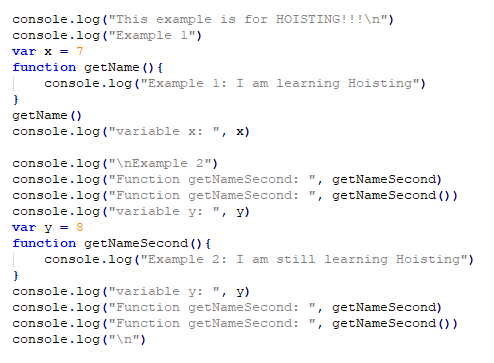
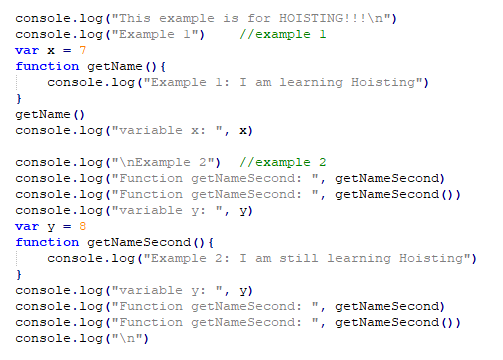
done scope topic

diff --git a/myscripts.js b/myscripts.js
@@ -1,18 +1,25 @@
 // add bongo cat on top
 // title logo with yellow JS text
 // add video redirect links to concepts of akshay saini
-// add QR code UPI for support and paypal (or to make this site go live and become an opensource community)
+// add QR code UPI for support developer and paypal and github link (or to make this site go live and become an opensource community)
+
+// =================================================   MESSAGE    =======================================================
 
 /*
 Developed by Sankalp Sharma
 Email: sharma.sankalp97@gmail.com
 Website: sharmasankalp.com
 I was a newbie with JS when I developed this. Learnt all the stuff from Akshay Saini (youtube), you can check that out!
-Also, if you feel like you can contribute to the website through your skills, feel free to read out to me. (Please do if you want to make significant changes)
+Also, if you feel like you can contribute to the website through your skills, feel free to read out to me. (Please do, if you want to make significant changes)
 If you are only interested in minor changes/fixes or improvements, you can create a pull request on github.
-
-
 */
+
+
+// ====================================================   CODE    ========================================================
+
+
+// Common Helper functions     -------------------------------------------
+
 
 /*
 This statement is to clear the console (common for every study example)
@@ -22,13 +29,16 @@ const clear = function(){
 }
 
 
+// Hoisting     ----------------------------------------------------------
+
+
 /*
 This function (hoisting) is the example for hoisting in JavaScript
 It has two examples within it
 */
 const hoisting = function (){
     console.log("This example is for HOISTING!!!\n")
-    console.log("Example 1")
+    console.log("Example 1")    //example 1
     var x = 7
     function getName(){
         console.log("Example 1: I am learning Hoisting")
@@ -36,7 +46,7 @@ const hoisting = function (){
     getName()
     console.log("variable x: ", x)
 
-    console.log("\nExample 2")
+    console.log("\nExample 2")  //example 2
     console.log("Function getNameSecond: ", getNameSecond)
     console.log("Function getNameSecond: ", getNameSecond())
     console.log("variable y: ", y)
@@ -48,6 +58,11 @@ const hoisting = function (){
     console.log("Function getNameSecond: ", getNameSecond)
     console.log("Function getNameSecond: ", getNameSecond())
     console.log("\n")
+
+
+    var fact = "Fact: The ability of functions to get assigned to variables, passed as arguments, return functions make JS support First Class Functions. "
+    fact += "\nThe functions which treat other functions as variables are called Higher Order Functions."
+    document.querySelector("#hoistingFact").innerHTML = fact
 }
 
 //also example of event delegation, will be proviging a specific example for it too
@@ -59,7 +74,7 @@ const hoistingEvents = function(e){
         }
         else if (e.target.id === "hoistingLearn"){
             link = "https://youtu.be/Fnlnw8uY6jo"
-            window.open(link, "_blank");
+            window.open(link, "_blank")
         }
         else{
             clear()
@@ -69,10 +84,122 @@ const hoistingEvents = function(e){
 document.querySelector("#hoisting").addEventListener("click", hoistingEvents)
 
 
+// Scope & Variables   ---------------------------------------------------------------
+
+
 /*
 This function is written to give an idea about Scope chains, shadowing in JS
 */
 
+
+//
+const scope = function(){
+    console.log("Example 1: Focused on call stack")    //example 1
+    var x = 1
+    console.log("var 'x' inside GEC: ", x)
+    console.log("Invoking function 'a' and 'b'")
+    a()
+    b()
+    function a(){
+        console.log("Function 'a' invoked!")
+        var x = 10
+        console.log("var 'x' inside function 'a': ", x)
+    }
+    function b(){
+        console.log("Function 'b' invoked!")
+        var x = 100
+        console.log("var 'x' inside function 'b': ", x)
+    }
+
+    console.log("Example 2: Focused on Lexical Environment")    //example 2
+    function outer(){
+        console.log("Inside outer function")
+        console.log("variable 'value' inside 'outer' function: ", value)
+        inner()
+        function inner(){
+            console.log("Inside inner function")
+            console.log("variable 'value' inside 'inner' function: ", value)
+        }
+    }
+    var value = 10
+    console.log("var 'value' inside Global Scope: ", value)
+    outer()
+
+    console.log("Example 3: Focused on block scopes" )  //example 3
+    {
+        console.log("Creating p,q,r inside a block scope")
+        var p = 10
+        let q = 20
+        const r = 30
+        console.log("We are currently in the block scope")
+        console.log("var p: ", p)
+        console.log("let q: ", q)
+        console.log("const r: ", r)
+    }
+    console.log("Came out of the block scope")
+    try{
+        console.log("var p: ", p)
+
+        console.log("let q: ", q)
+    }
+    catch{
+        console.log("Error!")
+    }
+    try{
+        console.log("const r: ", r)
+    }
+    catch{
+        console.log("Error!")
+    }
+
+    console.log("Example 4: Focused on shadowing")  //example 4
+    var block_var = 100
+    console.log("var 'block_var' initialised: ", block_var)
+    {   
+        var block_var = 10
+        console.log("var 'block_var' reinitialsed inside block: ", block_var)
+    }
+    console.log("var 'block_var' outside block: ", block_var)
+
+    let block_let = 100
+    console.log("let 'block_let' initialised: ", block_let)
+    {   
+        let block_var = 10
+        console.log("let 'block_let' reinitialsed inside block: ", block_let)
+    }
+    console.log("let 'block_let' outside block: ", block_let)
+
+    const block_const = 100
+    console.log("const 'block_const' initialised: ", block_const)
+    {   
+        const block_const = 10
+        console.log("const 'block_const' reinitialsed inside block: ", block_const)
+    }
+    console.log("const 'block_const' outside block: ", block_const)
+    var fact = "Fact: Functions are treated as variables. let and const cannot be reinitialised with same scope, const cannot be overwritten within same scope. "
+    fact += "\nLexical environment is the local scope of the block/functions and their parent's lexical environment."
+    document.querySelector("#scopeFact").innerHTML = fact
+}
+
+//also example of event delegation, will be proviging a specific example for it too
+const scopeEvents = function(e){
+    console.log("Scope div clicked")
+    if (e.target.tagName === "BUTTON")
+        if (e.target.id === "scopeButton"){
+            scope()
+        }
+        else if (e.target.id === "scopeLearn"){
+            link1 = "https://youtu.be/uH-tVP8MUs8"
+            window.open(link1, "_blank")
+            link2 = "https://youtu.be/lW_erSjyMeM"
+            window.open(link2, "_blank")
+        }
+        else{
+            clear()
+        }
+}
+
+document.querySelector("#scope").addEventListener("click", scopeEvents)
 
 
 
@@ -82,6 +209,7 @@ This function is written to give an idea about Scope chains, shadowing in JS
 //temporal deadzone
 //settimout and closures
 //js execution using html etc complete manipulation
+// function declaration, expression etc
 //call apply bind
 //functiion currying
 //event bubbling and capturing

diff --git a/index.html b/index.html
@@ -7,29 +7,68 @@
         <script defer src="myscripts.js"></script>
     </head>
     <body>
+        <marquee>
+            This should be taken as reference only! Please code side by side to learn efficiently!
+        </marquee>
         <div>
             <h1>
                 I used the JavaScript to learn the JavaScript
             </h1>
         </div>
-        <div class="" id="hoisting">
+        <div class="lesson" id="hoisting">
             <h2>
-                Open console to observe outputs
+                Hoisting
             </h2>
+            <h3>
+                Open console to observe outputs
+            </h3>
             <div id="hoistingPrint">
                 <img src="images/hoisting.PNG">
+                <br>
+                <p id="hoistingFact">
+
+                </p>
 
             </div>
             <button id = "hoistingButton">
-                Learn Hoisting
+                Start Program
             </button>
             <button class = "clearConsole">
                 Clear Console
             </button>
             <button  id = "hoistingLearn">
-                Learn Hoisting
+                Learn
             </button>
         </div>
+        <div class="lesson" id="scope">
+            <h2>
+                Scope & Variables
+            </h2>
+            <h3>
+                Open console to observe outputs
+            </h3>
+            <div id="scopePrint">
+                <img src="images/scope1.PNG">
+                <br>
+                <img src="images/scope2.PNG">
+                <br>
+                <img src="images/scope3.PNG">
+                <br>
+                <p id="scopeFact">
+
+                </p>
+            </div>
+            <button id = "scopeButton">
+                Start Program
+            </button>
+            <button class = "clearConsole">
+                Clear Console
+            </button>
+            <button  id = "scopeLearn">
+                Learn (will open multiple tabs)
+            </button>
+        </div>
+        
 
     </body>
 </html>
